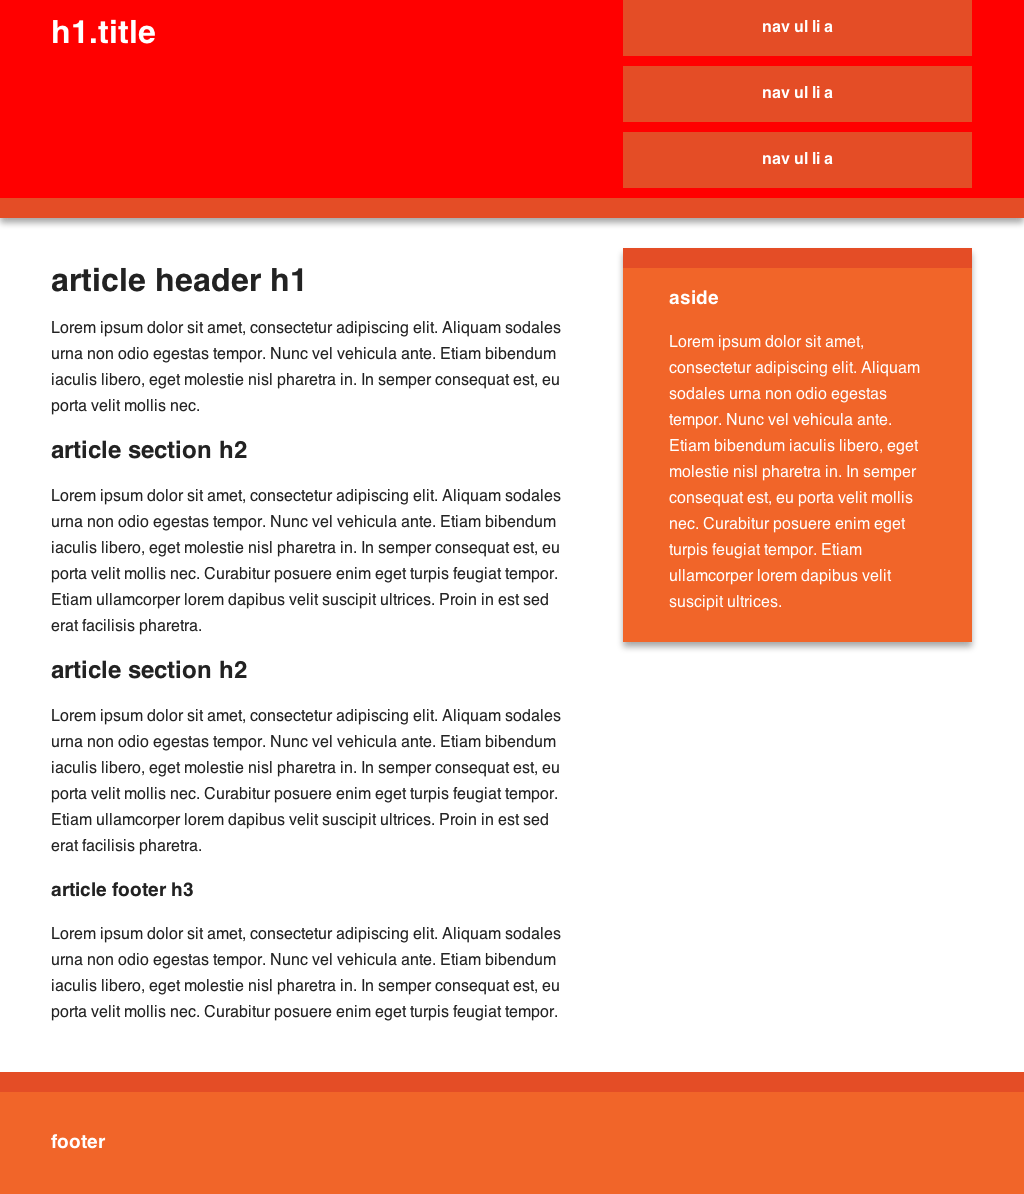
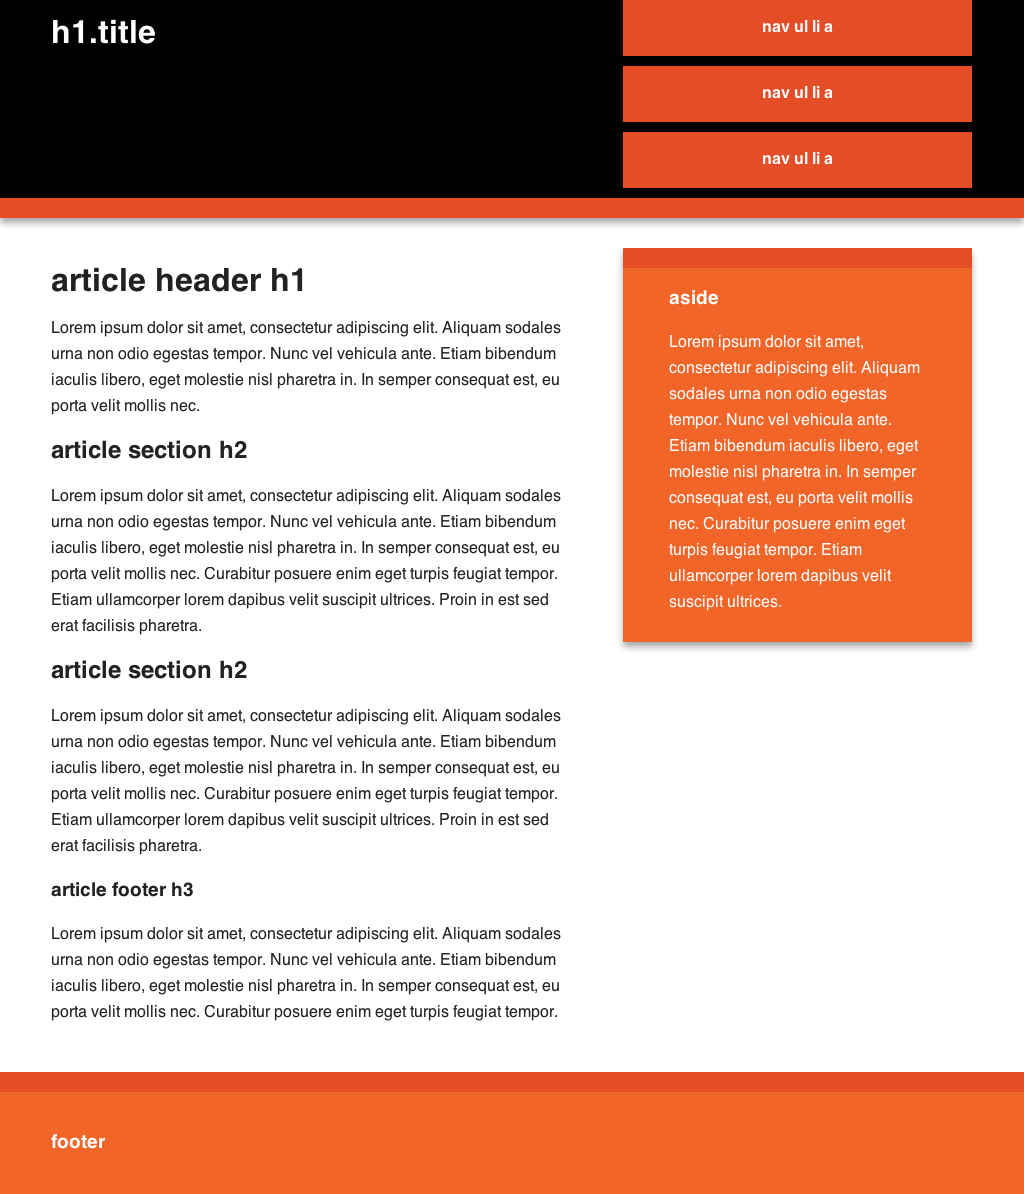
change header bg color for top level test files

Changed region(s): [[0.0, 0.0, 1.0, 0.1859]]

diff --git a/test/files/css/main.css b/test/files/css/main.css
@@ -398,5 +398,5 @@ nav a:hover {
 
 .header-container {
     color: black;
-    background: red;
+    background: black;
 }
